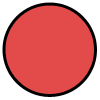
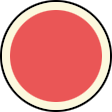
fix notefileparser & add det result image

Changed region(s): [[0.0, 0.0, 1.0, 1.0]]

diff --git a/src/mainview/determineresult.cpp b/src/mainview/determineresult.cpp
@@ -1,19 +1,22 @@
-#include "determineresult.h"
-#include <QPainter>
+#include <QPainter>
 #include <QDebug>
 #include <QPropertyAnimation>
 #include <QParallelAnimationGroup>
 #include <QStateMachine>
 #include <QSignalTransition>
+#include "determineresult.h"
+#include "../pixmapmanager.h"
 
 DetermineResult::DetermineResult(QGraphicsItem *parent)
     :QGraphicsObject(parent)
 {
-}
+    rect_ = QRectF(QPointF(0,0),PixmapManager::getSize(Ts::mv::DETRESULT_SIZE));
+    pos1_ = PixmapManager::getPos(Ts::mv::DETRESULT_POS1);
+    pos2_ = PixmapManager::getPos(Ts::mv::DETRESULT_POS2);
 
-QRectF DetermineResult::boundingRect() const
-{
-    return QRectF(0,0,100,100);
+    greatPixmap_ = PixmapManager::get(Ts::mv::DETGREAT);
+    goodPixmap_ = PixmapManager::get(Ts::mv::DETGOOD);
+    failPixmap_ = PixmapManager::get(Ts::mv::DETFAIL);
 }
 
 void DetermineResult::paint(QPainter *painter, const QStyleOptionGraphicsItem *option, QWidget *widget)
@@ -24,19 +27,16 @@ void DetermineResult::paint(QPainter *painter, const QStyleOptionGraphicsItem *o
     painter->setFont(QFont(Ts::GUI_FONT_NAME,15));
     switch (result_)
     {
-    case Ts::OUTSIDE:
-        break;
     case Ts::GREAT:
-        painter->drawText(boundingRect(),Qt::AlignCenter,"Great");
+        painter->drawPixmap(greatPixmap_.pos(),greatPixmap_);
         break;
     case Ts::GOOD:
-        painter->drawText(boundingRect(),Qt::AlignCenter,"Good");
+        painter->drawPixmap(goodPixmap_.pos(),goodPixmap_);
         break;
     case Ts::FAIL:
-        painter->drawText(boundingRect(),Qt::AlignCenter,"Fail");
+        painter->drawPixmap(failPixmap_.pos(),failPixmap_);
         break;
-    case Ts::MISS:
-        painter->drawText(boundingRect(),Qt::AlignCenter,"Miss");
+    default:
         break;
     }
 }
@@ -56,10 +56,10 @@ void DetermineResult::determined(Ts::DetermineValue value)
 
     result_ = value;
 
-    QPropertyAnimation *aniPos = new QPropertyAnimation(this,"y");
-    aniPos->setKeyValueAt(0,0);
-    aniPos->setKeyValueAt(0.6,-30);
-    aniPos->setKeyValueAt(1,-30);
+    QPropertyAnimation *aniPos = new QPropertyAnimation(this,"pos");
+    aniPos->setKeyValueAt(0,pos1_);
+    aniPos->setKeyValueAt(0.6,pos2_);
+    aniPos->setKeyValueAt(1,pos2_);
     aniPos->setDuration(300);
     QPropertyAnimation *aniVisable = new QPropertyAnimation(this,"opacity");
     aniVisable->setKeyValueAt(0,0);

diff --git a/src/mainview/noteyellowbar.cpp b/src/mainview/noteyellowbar.cpp
@@ -12,14 +12,14 @@ NoteYellowBar::NoteYellowBar(QGraphicsItem *parent, int index, bool isBig)
     if (isBig)
     {
         notePixmap_ = PixmapManager::get(Ts::mv::BIG_YELLOW_BAR_BODY);
-        noteHeadPixmap_ = PixmapManager::get(Ts::mv::BIG_YELLOW_BAR_HEAD);
-        noteTailPixmap_ = PixmapManager::get(Ts::mv::BIG_YELLOW_BAR_TAIL);
+        headPixmap_ = PixmapManager::get(Ts::mv::BIG_YELLOW_BAR_HEAD);
+        tailPixmap_ = PixmapManager::get(Ts::mv::BIG_YELLOW_BAR_TAIL);
     }
     else
     {
         notePixmap_ = PixmapManager::get(Ts::mv::YELLOW_BAR_BODY);
-        noteHeadPixmap_ = PixmapManager::get(Ts::mv::YELLOW_BAR_HEAD);
-        noteTailPixmap_ = PixmapManager::get(Ts::mv::YELLOW_BAR_TAIL);
+        headPixmap_ = PixmapManager::get(Ts::mv::YELLOW_BAR_HEAD);
+        tailPixmap_ = PixmapManager::get(Ts::mv::YELLOW_BAR_TAIL);
     }
 }
 
@@ -28,21 +28,28 @@ void NoteYellowBar::paint(QPainter *painter, const QStyleOptionGraphicsItem *opt
     Q_UNUSED(option);
     Q_UNUSED(widget);
 
-    QRectF headRect(0,0,Ts::NOTE_WIDTH,Ts::NOTE_HEIGHT);
-    QRectF tailRect(0,0,Ts::NOTE_WIDTH,Ts::NOTE_HEIGHT);
-    QRectF bodyRect(0,0,Ts::NOTE_WIDTH,Ts::NOTE_HEIGHT);
-    tailRect.moveLeft(length_ * unitWidth_ - tailRect.width());
-    bodyRect.setLeft(headRect.width() / 2);
-    bodyRect.setRight(length_ * unitWidth_ - tailRect.width() / 2);
+    QRectF headRect(headPixmap_.pos(),headPixmap_.size());
+    QRectF tailRect(headPixmap_.pos(),tailPixmap_.size());
+    QRectF bodyRect(headPixmap_.pos(),notePixmap_.size());
+    tailRect.moveLeft(length_ * unitWidth_ - tailRect.width() - headRect.left());
+    bodyRect.setLeft(headRect.width());
+    bodyRect.setRight(tailRect.left());
 
-    painter->drawPixmap(headRect,noteHeadPixmap_,noteHeadPixmap_.rect());
-    painter->drawPixmap(tailRect,noteTailPixmap_,noteTailPixmap_.rect());
+    painter->drawPixmap(tailRect,tailPixmap_,tailPixmap_.rect());
     painter->drawPixmap(bodyRect,notePixmap_,notePixmap_.rect());
+    painter->drawPixmap(headRect,headPixmap_,headPixmap_.rect());
 }
 
 bool NoteYellowBar::acceptAct(Ts::TaikoState action)
 {
     return (action & Ts::DON_BOTH) || (action & Ts::KA_BOTH);
+}
+
+void NoteYellowBar::setUnitWidth(int unitWidth)
+{
+    Note::setUnitWidth(unitWidth);
+
+    rect_ = QRectF(0,0,length_ * unitWidth_,Ts::NOTE_HEIGHT);
 }
 
 

diff --git a/src/notefileparser.cpp b/src/notefileparser.cpp
@@ -235,14 +235,22 @@ bool NoteFileParser::parse(Ts::Course loadCourse)
                 }
                 QStringList measures = lineCombine.split(',',QString::SkipEmptyParts);
                 QQueue<int> yellowbarLen;
+                QQueue<int> ballonLen;
                 // reformat yellowbar
                 for (int i = 0;i < measures.count();i++)
                 {
                     QString &mealine = measures[i];
                     for (int j = 0;j < mealine.count();j++)
                     {
+                        bool ballonStart = false;
+                        bool yellowbarStart = false;
+                        if (mealine[j] == '7')
+                            ballonStart = true;
+                        else if (mealine[j] == '5' || mealine[j] == '6')
+                            yellowbarStart = true;
+
                         // yellow bar start
-                        if (mealine[j] == '5' || mealine[j] == '6')
+                        if (ballonStart || yellowbarStart)
                         {
                             int count = 1;
                             j++;
@@ -261,7 +269,10 @@ bool NoteFileParser::parse(Ts::Course loadCourse)
                                 if (mealine[j] == '8')
                                 {
                                     mealine[j++] = '0';
-                                    yellowbarLen.append(++count);
+                                    if (yellowbarStart)
+                                        yellowbarLen.append(++count);
+                                    else
+                                        ballonLen.append(++count);
                                     break;
                                 }
                                 mealine[j++] = '0';
@@ -271,7 +282,6 @@ bool NoteFileParser::parse(Ts::Course loadCourse)
                     }
                 }
 
-                QQueue<int> ballonLen;
                 // create measure
                 for (int i = 0;i < measures.count();i++)
                 {

diff --git a/src/mainview/notecanvas.cpp b/src/mainview/notecanvas.cpp
@@ -1,10 +1,15 @@
-#include "notecanvas.h"
 #include <QPainter>
+#include <QDebug>
+#include "notecanvas.h"
+#include "../pixmapmanager.h"
 
 NoteCanvas::NoteCanvas(QGraphicsItem *parent)
     :QGraphicsItem(parent),rect_(0,0,821,114) // ratio=7.2
 {
+    backPixmap_ = PixmapManager::get(Ts::mv::CANVAS_BACK);
+    circlePixmap_ = PixmapManager::get(Ts::mv::DETERMINE_CIRCLE);
 
+    rect_ = QRectF(backPixmap_.pos(),backPixmap_.extend());
 }
 
 QRectF NoteCanvas::boundingRect() const
@@ -17,8 +22,8 @@ void NoteCanvas::paint(QPainter *painter, const QStyleOptionGraphicsItem *option
     Q_UNUSED(option);
     Q_UNUSED(widget);
 
-    painter->drawEllipse(QPointF(Ts::NOTE_WIDTH / 2,Ts::NOTE_HEIGHT / 2),Ts::NOTE_WIDTH / 3,Ts::NOTE_HEIGHT / 3);
-    painter->drawEllipse(QPointF(Ts::NOTE_WIDTH / 2,Ts::NOTE_HEIGHT / 2),Ts::NOTE_WIDTH / 5,Ts::NOTE_HEIGHT / 5);
+    painter->drawPixmap(rect_,backPixmap_,backPixmap_.rect());
+    painter->drawPixmap(circlePixmap_.pos(),circlePixmap_);
 }
 
 void NoteCanvas::advance(int step)

diff --git a/src/mainview/note.cpp b/src/mainview/note.cpp
@@ -27,11 +27,15 @@ Note::Note(QGraphicsItem *parent, Type noteType, int index)
     noteType_ = noteType;
 
     setCacheMode(DeviceCoordinateCache);
+
+    rect_ = QRectF(0,0,
+                   notePixmap_.width() + notePixmap_.pos().x(),
+                   notePixmap_.height() + notePixmap_.pos().y());
 }
 
 QRectF Note::boundingRect() const
 {
-    return notePixmap_.rect();
+    return rect_;
 }
 
 void Note::paint(QPainter *painter, const QStyleOptionGraphicsItem *option, QWidget *widget)
@@ -41,7 +45,7 @@ void Note::paint(QPainter *painter, const QStyleOptionGraphicsItem *option, QWid
 
     //QRect dstRect = notePixmap_.rect();
 
-    painter->drawPixmap(0,0,Ts::NOTE_WIDTH,Ts::NOTE_HEIGHT,notePixmap_);
+    painter->drawPixmap(notePixmap_.pos(),notePixmap_);
 }
 
 int Note::index()

diff --git a/src/mainview/determineresult.h b/src/mainview/determineresult.h
@@ -6,6 +6,7 @@
 #include <QStateMachine>
 
 #include "determinerange.h"
+#include "../pixmapres.h"
 
 class DetermineResult : public QGraphicsObject
 {
@@ -13,7 +14,8 @@ class DetermineResult : public QGraphicsObject
 public:
     DetermineResult(QGraphicsItem *parent = 0);
 
-    QRectF boundingRect() const;
+    QRectF boundingRect() const { return rect_; }
+
     void paint(QPainter *painter, const QStyleOptionGraphicsItem *option,
         QWidget *widget);
     void advance(int step);
@@ -22,6 +24,12 @@ public slots:
     void determined(Ts::DetermineValue value);
 private:
     Ts::DetermineValue result_;
+    QRectF rect_;
+    QPointF pos1_;
+    QPointF pos2_;
+    PixmapRes greatPixmap_;
+    PixmapRes goodPixmap_;
+    PixmapRes failPixmap_;
 };
 
 #endif // DETERMINERESULT_H

diff --git a/src/stable.h b/src/stable.h
@@ -56,6 +56,16 @@ const char* const RES_FILE = "../res/res.ini";
 // resource of main view
 namespace mv
 {
+const char* const CANVAS_BACK = "mainview/canvasback";
+const char* const DETERMINE_CIRCLE = "mainview/determinecircle";
+
+const char* const DETRESULT_SIZE = "mainview/detresult/size";
+const char* const DETRESULT_POS1 = "mainview/detresult/pos1";
+const char* const DETRESULT_POS2 = "mainview/detresult/pos2";
+const char* const DETGREAT = "mainview/detgreat";
+const char* const DETGOOD = "mainview/detgood";
+const char* const DETFAIL = "mainview/detfail";
+
 const char* const RED_MARKER = "mainview/redmarker";
 const char* const BLUE_MARKER = "mainview/bluemarker";
 const char* const BIG_RED_MARKER = "mainview/bigredmarker";

diff --git a/src/mainview/noteballon.cpp b/src/mainview/noteballon.cpp
@@ -1,3 +1,4 @@
+#include <QPainter>
 #include "noteballon.h"
 
 NoteBallon::NoteBallon(QGraphicsItem *parent, int index)
@@ -5,6 +6,14 @@ NoteBallon::NoteBallon(QGraphicsItem *parent, int index)
       count_(0),
       hitCount_(0)
 {
+}
+
+void NoteBallon::paint(QPainter *painter, const QStyleOptionGraphicsItem *option, QWidget *widget)
+{
+    Q_UNUSED(option);
+    Q_UNUSED(widget);
+
+    painter->drawRect(0,0,length_ * unitWidth_,Ts::NOTE_HEIGHT);
 }
 
 bool NoteBallon::acceptAct(Ts::TaikoState action)

diff --git a/src/mainview/mainwindow.cpp b/src/mainview/mainwindow.cpp
@@ -45,7 +45,8 @@ MainWindow::MainWindow(QWidget *parent) :
     chart_->setBoundingRect(canvas->boundingRect());
     chart_->connect(this,SIGNAL(hit(Ts::TaikoState)),SLOT(hit(Ts::TaikoState)));
 
-    determine_ = new DetermineResult(canvas);
+    determine_ = new DetermineResult();
+    scene->addItem(determine_);
     determine_->connect(chart_,SIGNAL(determined(Ts::DetermineValue)),SLOT(determined(Ts::DetermineValue)));
 
     connect(&timer_,SIGNAL(timeout()),SLOT(timeout()));

diff --git a/src/mainview/noteyellowbar.h b/src/mainview/noteyellowbar.h
@@ -19,13 +19,13 @@ public:
 
     bool acceptAct(Ts::TaikoState action);
 
-    //void setUnitWidth(int unitWidth);
+    void setUnitWidth(int unitWidth);
 
 private:
     int length_;
     int hitCount_;
-    PixmapRes noteHeadPixmap_;
-    PixmapRes noteTailPixmap_;
+    PixmapRes headPixmap_;
+    PixmapRes tailPixmap_;
 };
 
 #endif // NOTEYELLOWBAR_H

diff --git a/src/mainview/measure.cpp b/src/mainview/measure.cpp
@@ -123,7 +123,7 @@ void Measure::setNotes(NoteTypeList notes, QQueue<int> &ballonHits,QQueue<int> &
     }
 
     // roughly set beats per bar + 1
-    disappearElapsed_ = appearElapsed_ + 60000 / tempo_ * (beatsPerBar_ + 1);
+    disappearElapsed_ = appearElapsed_ + 60000 / tempo_ * (beatsPerBar_ * 2 + 1);
 }
 
 void Measure::advance(int phase)

diff --git a/src/mainview/noteballon.h b/src/mainview/noteballon.h
@@ -8,6 +8,8 @@ class NoteBallon : public Note
 public:
     NoteBallon(QGraphicsItem *parent,int index);
 
+    void paint(QPainter *painter, const QStyleOptionGraphicsItem *option, QWidget *widget);
+
     int length() const { return length_; }
     void setLength(int length) { length_ = length; }
 
